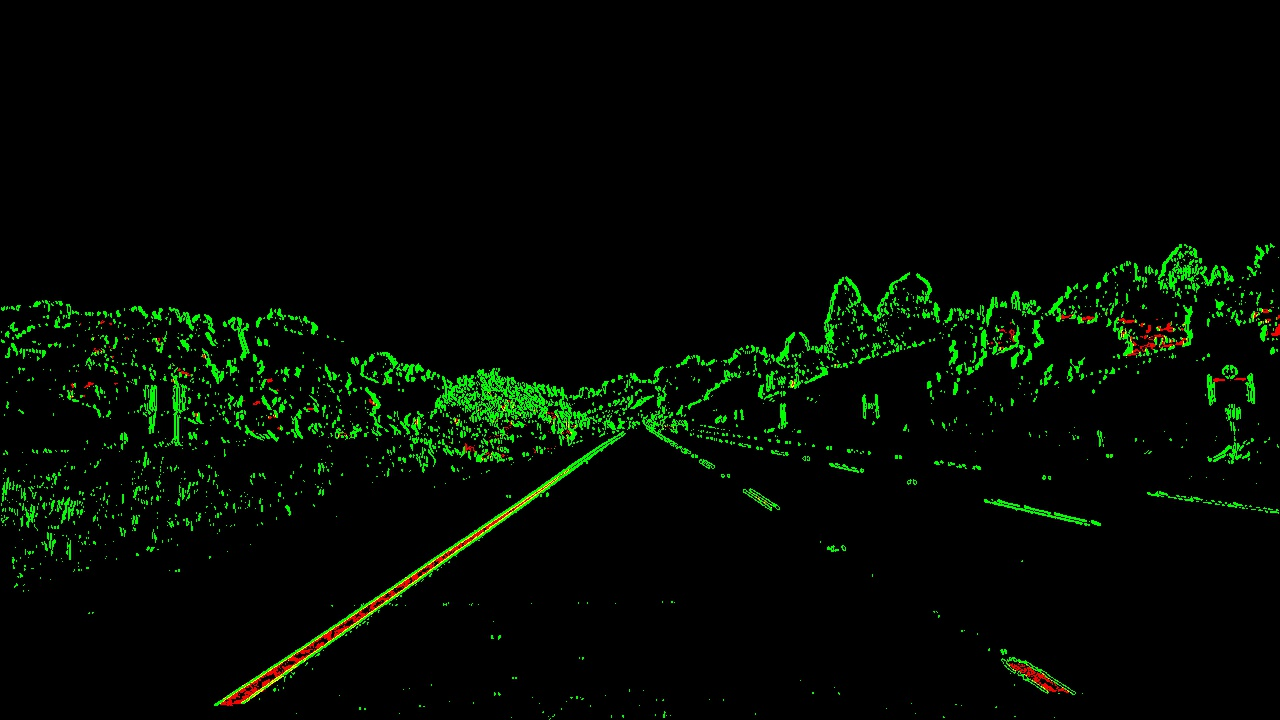
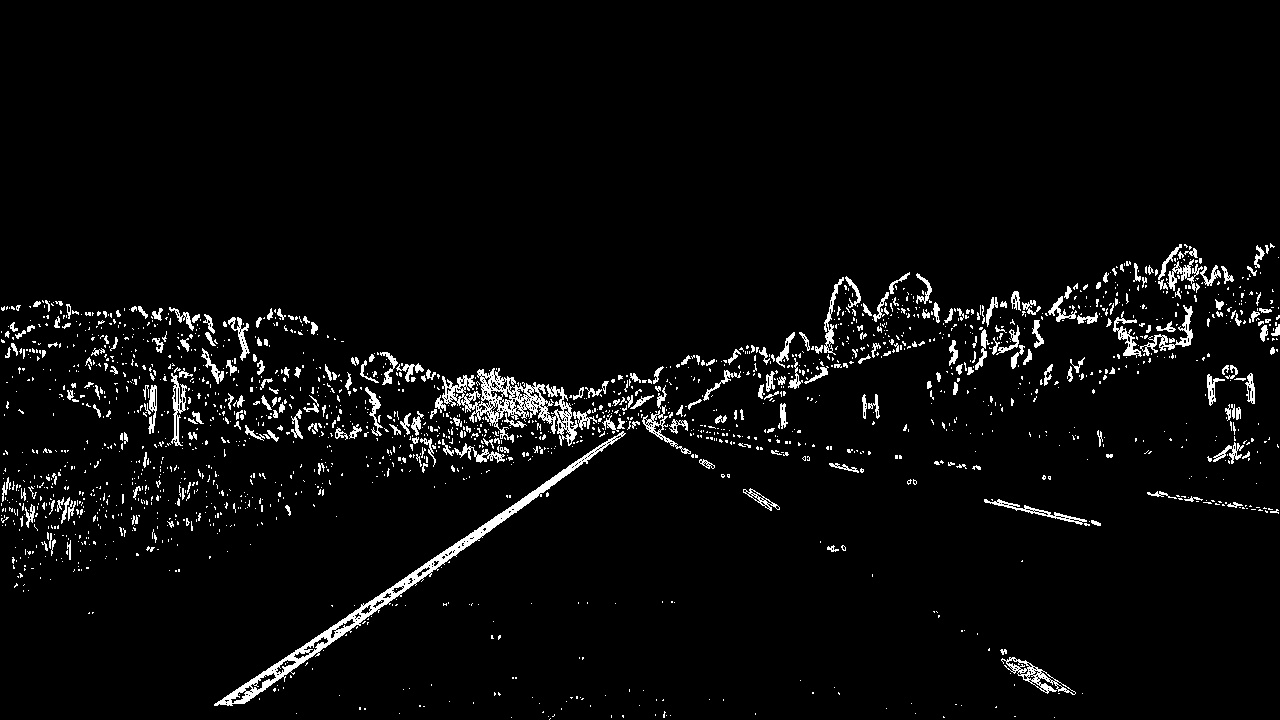
updated

diff --git a/writeup.md b/writeup.md
@@ -54,7 +54,7 @@ Original image             |  Undistorted image
 
 ### Step 3. Create a thresholded binary image.
 
-Once the frame image is undistorted, then the next step is to identify lane line pixels. I basically used two approaches: applying threshold to gradient and color. Pixels identified by two approaches are combined together to form a thresholded binary image.
+Once the frame image is undistorted, then the next step is to convert the image to thresholded binary image. I basically used two approaches: applying threshold to gradient and color. Pixels identified by two approaches are combined together to form a thresholded binary image.
 
 #### Thresholding gradient
 
@@ -66,7 +66,7 @@ S channel is used for thresholding color for the same reason that lane line pixe
 
 Example of thresholded binary image is shown below. For the reader, pixels identified by gradient threshold is shown in green color while pixels identified by color threshold is shown in red color.
 
-Original image after calibration             |  Thresholded image
+Undistorted image             |  Thresholded image
 :-------------------------:|:-------------------------:
 ![fig](./test_images/straight_lines1_und.jpg)  |  ![fig](./test_images/straight_lines1_thres.jpg)
 
@@ -74,6 +74,9 @@ Original image after calibration             |  Thresholded image
 ### Step 4. Apply a perspective transform
 
 
+Thresholded image with source points         |  Warped image
+:-------------------------:|:-------------------------:
+![fig](./test_images/straight_lines1_corn.jpg)  |  ![fig](./test_images/straight_lines1_warp.jpg)
 
 
 ### Putting everything together
